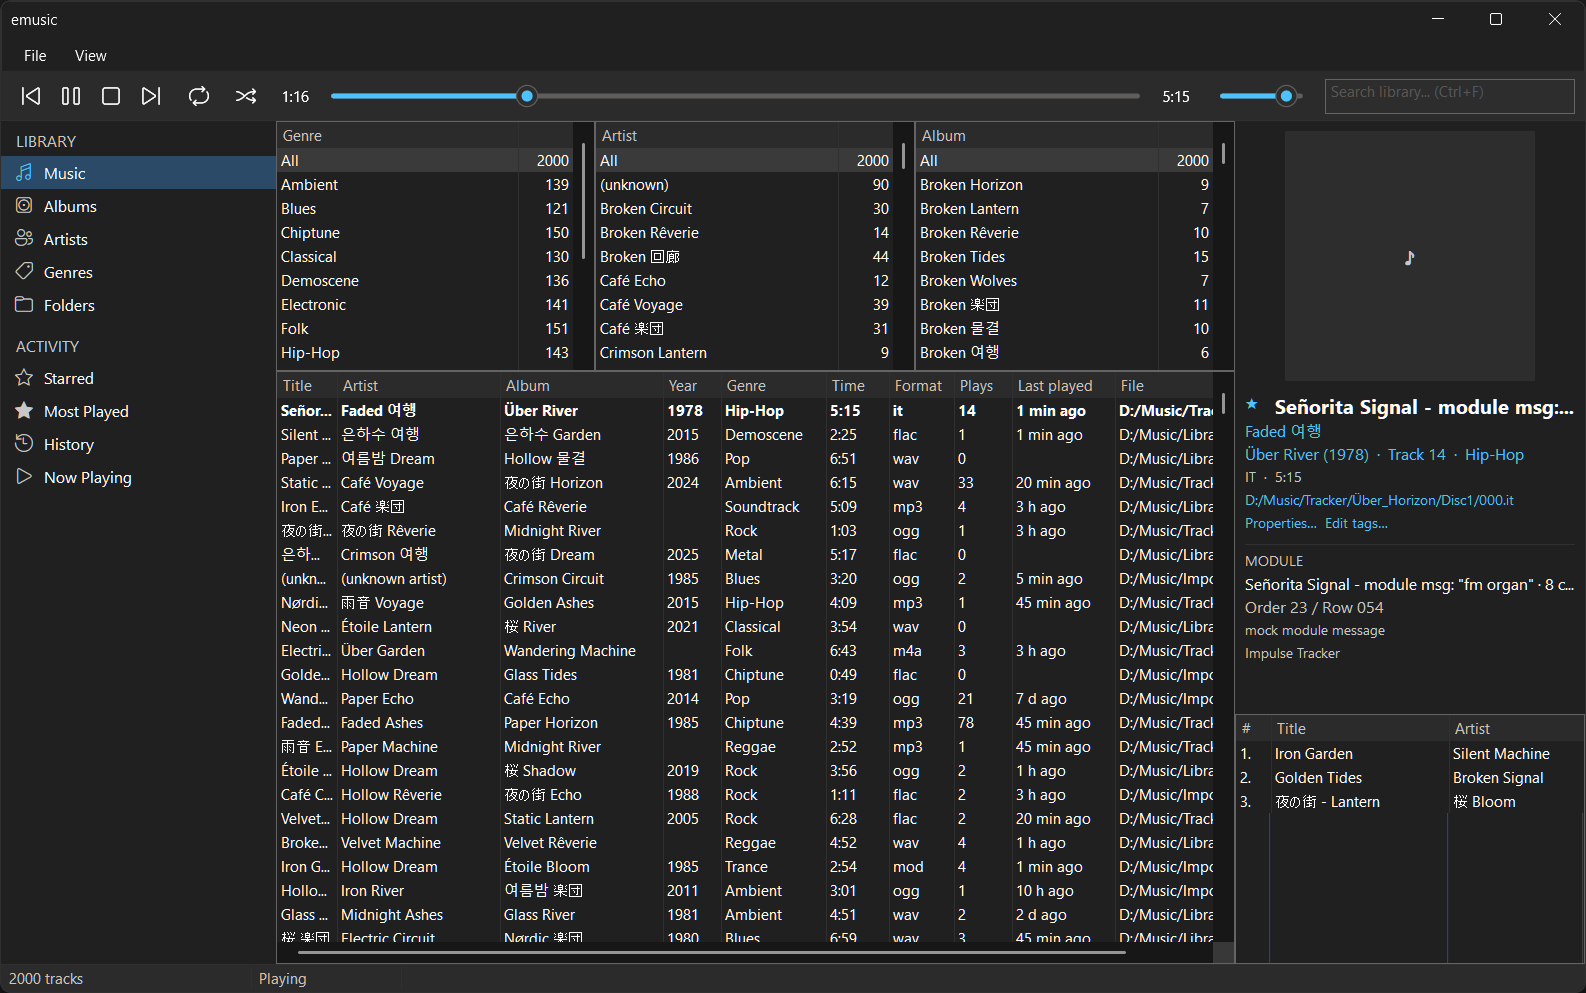
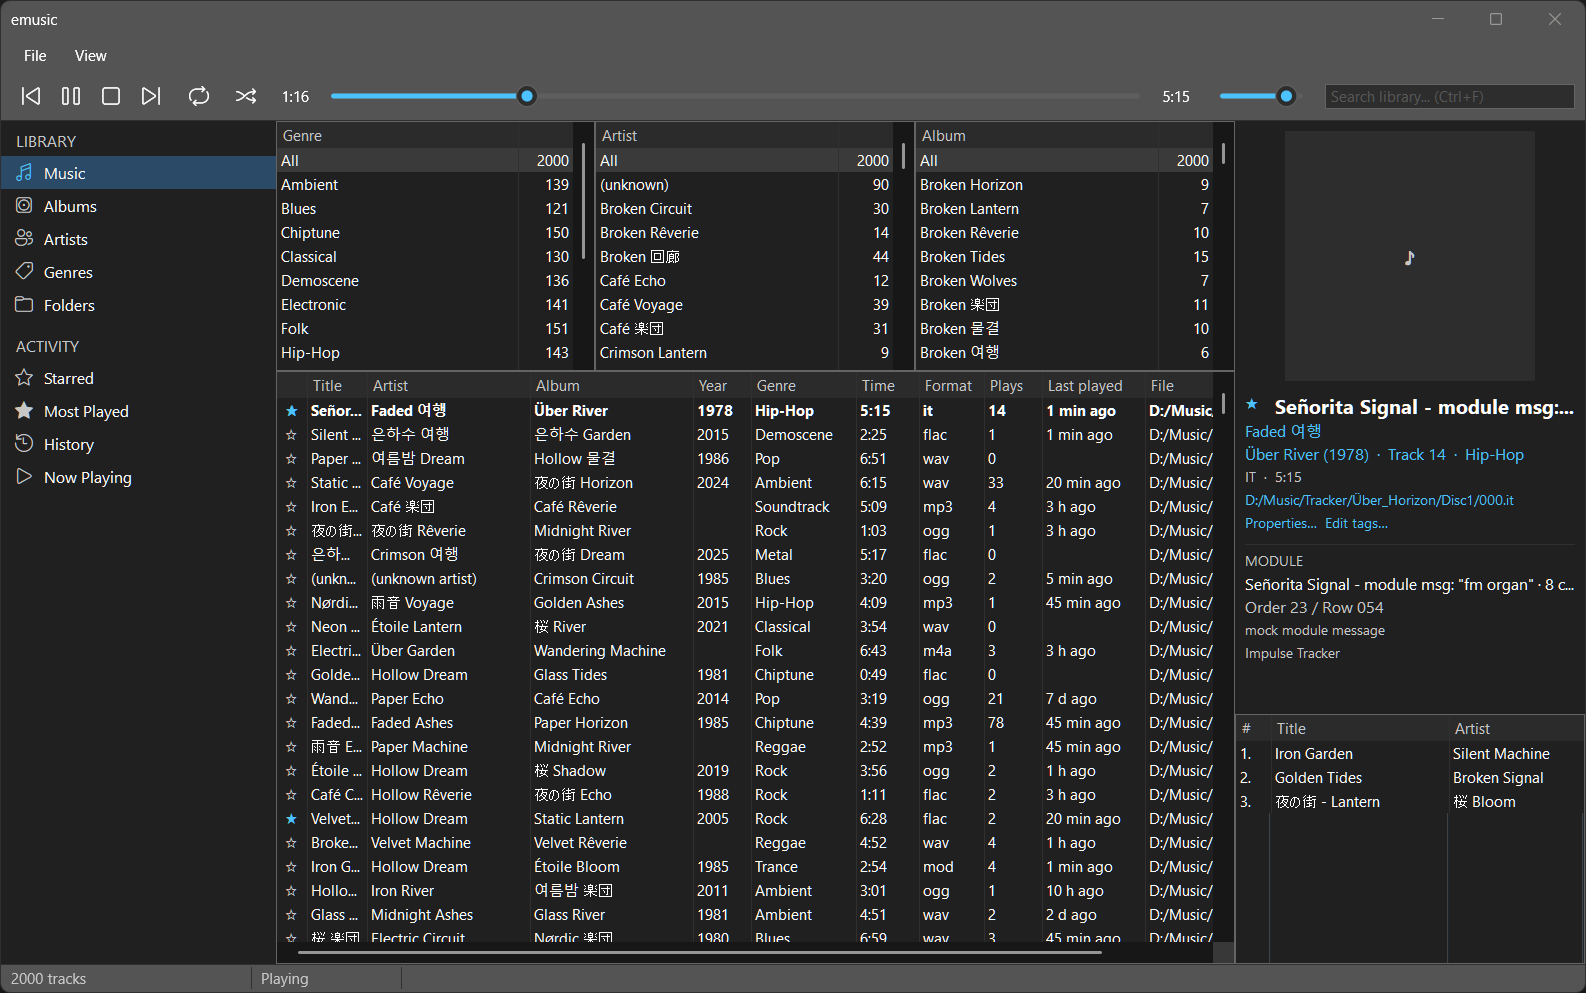
Win32: show and toggle stars in the track tables (#243)
The Win32 track tables (Music, Folders, Starred, Most Played and the
Albums track list) now start each row with a star cell: a filled accent
star when starred, a dim outline otherwise. Clicking it toggles the star
in place, without changing the selection or starting playback.

The cell is frontend-drawn and frontend-clicked; the shared emusic-ui
column list is untouched (the star is a list column at index 0, with the
shared columns shifted by one). It rides on a new
`ListView::on_cell_click` plus per-column centring and per-cell colour
from va1erian/win32ui#137.

The win32ui dependency is temporarily pinned to that PR branch until it
merges; revert to `branch = "main"` then.

Changed region(s): [[0.0, 0.3746, 1.0, 0.999], [0.0, 0.0, 1.0, 0.1249]]

diff --git a/crates/win32/src/views/track_table.rs b/crates/win32/src/views/track_table.rs
@@ -16,9 +16,43 @@ use emusic_ui::state::Command;
 use emusic_ui::views::track_table::columns::{self, ColumnId};
 use emusic_ui::views::track_table::sort::{self, SortState};
 use win32ui::prelude::*;
-use win32ui::{ColumnWidth, Fill, ListModel, ListView, Menu, RowStyle, SortDirection, dip};
+use win32ui::{Column, ColumnWidth, Fill, ListModel, ListView, Menu, RowStyle, SortDirection, dip};
 
 use crate::app::Msg;
+
+/// The frontend-drawn star toggle column, first in the table (#243). The
+/// shared `emusic-ui` column list never mentions it: only the frontends know
+/// how to draw and click it, so the data columns stay index-compatible with
+/// `columns::COLUMNS` at offset [`COLUMNS_OFFSET`].
+pub(crate) const STAR_COLUMN: usize = 0;
+/// The first data column (Title): the star column shifts every shared column
+/// right by one.
+const COLUMNS_OFFSET: usize = 1;
+/// The star column's width, in design units.
+const STAR_COLUMN_WIDTH: f32 = 24.0;
+
+/// The star cell's glyph: a filled star when starred, an outline otherwise,
+/// matching the now-playing summary.
+pub(crate) fn star_glyph(starred: bool) -> &'static str {
+    if starred { "\u{2605}" } else { "\u{2606}" }
+}
+
+/// Builds the star toggle column: centred, not resizable, its glyph tinted
+/// with the theme accent when starred and dim otherwise.
+pub(crate) fn star_column() -> Column<TrackRow> {
+    Column::new("", dip(STAR_COLUMN_WIDTH), |row: &TrackRow| {
+        star_glyph(row.starred.get())
+    })
+    .centered()
+    .resizable(false)
+    .cell_color(|row, theme| {
+        Some(if row.starred.get() {
+            theme.accent
+        } else {
+            theme.text_secondary
+        })
+    })
+}
 
 /// A context-menu action on a track row.
 #[derive(Clone, Copy, PartialEq, Eq)]
@@ -37,6 +71,9 @@ pub enum ContextAction {
 /// albums grid's track list.
 pub(crate) struct TrackRow {
     pub(crate) track: TrackInfo,
+    /// The starred flag, mutable after build so a star-cell click repaints the
+    /// glyph without rebuilding the whole model.
+    starred: Cell<bool>,
     year_text: String,
     time_text: String,
     plays_text: String,
@@ -47,6 +84,7 @@ impl TrackRow {
     pub(crate) fn new(track: &TrackInfo) -> Self {
         Self {
             track: track.clone(),
+            starred: Cell::new(track.starred),
             year_text: track.year.map(|year| year.to_string()).unwrap_or_default(),
             time_text: columns::format_duration(track.duration),
             plays_text: track.play_count.to_string(),
@@ -55,6 +93,13 @@ impl TrackRow {
                 .map(format_minutes_ago)
                 .unwrap_or_default(),
         }
+    }
+
+    /// Flips this row's star and returns the track id, so a cell click can
+    /// update the glyph and queue [`Command::ToggleStarred`].
+    pub(crate) fn flip_star(&self) -> u64 {
+        self.starred.set(!self.starred.get());
+        self.track.id
     }
 
     /// The cell text for `column` (0 = Title, then `columns::COLUMNS`).
@@ -120,7 +165,11 @@ impl TrackView {
                     RowStyle::default()
                 }
             })
+            .add_column(star_column())
             .column("Title", Fill, |row: &TrackRow| row.text(0))
+            .on_cell_click(|row, column, _point| {
+                (column == STAR_COLUMN).then_some(Msg::ToggleStarRow(row))
+            })
             .on_activate(|row| Some(Msg::PlayRow(row)))
             .on_sort(|column| Some(Msg::SortColumn(column)))
             .on_context(|row| Some(Msg::ContextRow(row)));
@@ -188,6 +237,16 @@ impl TrackView {
     pub fn activate(&self, index: usize) -> Option<Command> {
         let row = self.rows.as_slice().get(index)?;
         Some(Command::play_track(row.track.id, self.context_ids()))
+    }
+
+    /// Flips the star for `index`, repaints that row and returns the command
+    /// to persist it. The cell click that raised this never moved the
+    /// selection, so the row stays put.
+    pub fn toggle_star(&self, index: usize) -> Option<Command> {
+        let row = self.rows.as_slice().get(index)?;
+        let id = row.flip_star();
+        self.list.rows_changed(index..index + 1);
+        Some(Command::ToggleStarred(id))
     }
 
     /// Runs a context action on the row that opened the menu.
@@ -269,23 +328,26 @@ pub(crate) fn cell_text(row: &TrackRow, id: ColumnId) -> &str {
     }
 }
 
-/// The list column index for a [`ColumnId`] (0 = Title, then `COLUMNS`).
+/// The list column index for a [`ColumnId`] (0 = star, 1 = Title, then
+/// `COLUMNS`).
 fn column_index(id: ColumnId) -> Option<usize> {
     if id == ColumnId::Title {
-        return Some(0);
+        return Some(COLUMNS_OFFSET);
     }
     columns::COLUMNS
         .iter()
         .position(|column| column.id == id)
-        .map(|index| index + 1)
+        .map(|index| index + COLUMNS_OFFSET + 1)
 }
 
-/// The [`ColumnId`] for a list column index.
+/// The [`ColumnId`] for a list column index, or `None` for the star column.
 pub fn column_id(index: usize) -> Option<ColumnId> {
-    if index == 0 {
+    if index == COLUMNS_OFFSET {
         return Some(ColumnId::Title);
     }
-    columns::COLUMNS.get(index - 1).map(|column| column.id)
+    columns::COLUMNS
+        .get(index.checked_sub(COLUMNS_OFFSET + 1)?)
+        .map(|column| column.id)
 }
 
 /// Runs a context action, returning the command to queue (or executing the

diff --git a/crates/win32/src/views/album_grid/tracks.rs b/crates/win32/src/views/album_grid/tracks.rs
@@ -20,7 +20,7 @@ use win32ui::{ColumnWidth, Fill, ListView, Menu, SortDirection, dip};
 use crate::app::Msg;
 use crate::views::album_grid::AlbumMsg;
 use crate::views::track_table::{
-    ContextAction, MusicModel, TrackRow, cell_text, run_context_action,
+    ContextAction, MusicModel, STAR_COLUMN, TrackRow, cell_text, run_context_action, star_column,
 };
 
 /// The selected album's tracks, in the shared table's display order.
@@ -50,7 +50,11 @@ impl TrackList {
                     RowStyle::default()
                 }
             })
+            .add_column(star_column())
             .column("Title", Fill, |row: &TrackRow| row.text(0))
+            .on_cell_click(|row, column, _point| {
+                (column == STAR_COLUMN).then_some(Msg::Album(AlbumMsg::TableToggleStar(row)))
+            })
             .on_activate(|row| Some(Msg::Album(AlbumMsg::TableActivate(row))))
             .on_sort(|column| Some(Msg::Album(AlbumMsg::TableSort(column))))
             .on_context(|row| Some(Msg::Album(AlbumMsg::TableContext(row))));
@@ -125,6 +129,15 @@ impl TrackList {
         Some(Command::play_track(track.track.id, context))
     }
 
+    /// Flips the star for `row`, repaints that cell and returns the command to
+    /// persist it. The click never moved the selection.
+    pub(super) fn toggle_star(&self, row: usize) -> Option<Command> {
+        let entry = self.rows.as_slice().get(row)?;
+        let id = entry.flip_star();
+        self.list.rows_changed(row..row + 1);
+        Some(Command::ToggleStarred(id))
+    }
+
     /// Remembers the row that opened the context menu.
     pub(super) fn set_context_row(&self, row: usize) {
         self.context_row.set(Some(row));
@@ -177,13 +190,14 @@ impl AsControl for TrackList {
     }
 }
 
-/// The list column index for a [`ColumnId`] (0 = Title, then `COLUMNS`).
+/// The list column index for a [`ColumnId`] (0 = star, 1 = Title, then
+/// `COLUMNS`).
 fn column_index(id: ColumnId) -> Option<usize> {
     if id == ColumnId::Title {
-        return Some(0);
+        return Some(1);
     }
     columns::COLUMNS
         .iter()
         .position(|column| column.id == id)
-        .map(|index| index + 1)
+        .map(|index| index + 2)
 }

diff --git a/crates/win32/src/app.rs b/crates/win32/src/app.rs
@@ -54,6 +54,8 @@ pub enum Msg {
     DatabaseInfo,
     /// Play the Music view row (double-click / Enter).
     PlayRow(usize),
+    /// Toggle the star of a track table row (a star-cell click).
+    ToggleStarRow(usize),
     /// Sort the Music view by a header column.
     SortColumn(usize),
     /// Open the Music view's context menu for a row.
@@ -640,6 +642,19 @@ impl App for Win32App {
                     View::Starred => self.starred.activate(row),
                     View::MostPlayed => self.most_played.activate(row),
                     View::History => self.history.activate(row),
+                    _ => None,
+                };
+                if let Some(command) = command {
+                    self.shell.dispatch(command);
+                    self.tick(ui);
+                }
+            }
+            Msg::ToggleStarRow(row) => {
+                let command = match self.shell.state.view {
+                    View::Music => self.music.toggle_star(row),
+                    View::Folders => self.folders.toggle_star(row),
+                    View::Starred => self.starred.toggle_star(row),
+                    View::MostPlayed => self.most_played.toggle_star(row),
                     _ => None,
                 };
                 if let Some(command) = command {

diff --git a/crates/win32/src/views/album_grid/mod.rs b/crates/win32/src/views/album_grid/mod.rs
@@ -74,6 +74,8 @@ pub enum AlbumMsg {
     TableSort(usize),
     /// A track row was double-clicked; play it.
     TableActivate(usize),
+    /// A track row's star cell was clicked; toggle it.
+    TableToggleStar(usize),
     /// A track row was right-clicked; open its context menu.
     TableContext(usize),
     /// A track context-menu entry was chosen.
@@ -370,6 +372,11 @@ impl AlbumGridView {
             }
             AlbumMsg::TableActivate(row) => {
                 if let Some(command) = self.tracks.activate(row) {
+                    out.push(command);
+                }
+            }
+            AlbumMsg::TableToggleStar(row) => {
+                if let Some(command) = self.tracks.toggle_star(row) {
                     out.push(command);
                 }
             }

diff --git a/crates/win32/src/views/most_played.rs b/crates/win32/src/views/most_played.rs
@@ -91,6 +91,11 @@ impl MostPlayedView {
         self.table.activate(index)
     }
 
+    /// The command to toggle the star of `index` (a star-cell click).
+    pub fn toggle_star(&self, index: usize) -> Option<emusic_ui::state::Command> {
+        self.table.toggle_star(index)
+    }
+
     /// Runs a context action on the row that opened the menu.
     pub fn run_context(
         &self,

diff --git a/crates/win32/src/views/folders.rs b/crates/win32/src/views/folders.rs
@@ -206,6 +206,11 @@ impl FoldersView {
         self.table.activate(index)
     }
 
+    /// The command to toggle the star of `index` (a star-cell click).
+    pub fn toggle_star(&self, index: usize) -> Option<emusic_ui::state::Command> {
+        self.table.toggle_star(index)
+    }
+
     /// Runs a context action on the row that opened the menu.
     pub fn run_context(
         &self,

diff --git a/crates/win32/src/views/starred.rs b/crates/win32/src/views/starred.rs
@@ -69,6 +69,11 @@ impl StarredView {
         self.table.activate(index)
     }
 
+    /// The command to toggle the star of `index` (a star-cell click).
+    pub fn toggle_star(&self, index: usize) -> Option<emusic_ui::state::Command> {
+        self.table.toggle_star(index)
+    }
+
     /// Runs a context action on the row that opened the menu.
     pub fn run_context(
         &self,

diff --git a/crates/win32/src/views/music.rs b/crates/win32/src/views/music.rs
@@ -90,6 +90,11 @@ impl MusicView {
         self.table.activate(index)
     }
 
+    /// The command to toggle the star of `index` (a star-cell click).
+    pub fn toggle_star(&self, index: usize) -> Option<emusic_ui::state::Command> {
+        self.table.toggle_star(index)
+    }
+
     /// Runs a context action on the row that opened the menu.
     pub fn run_context(
         &self,
